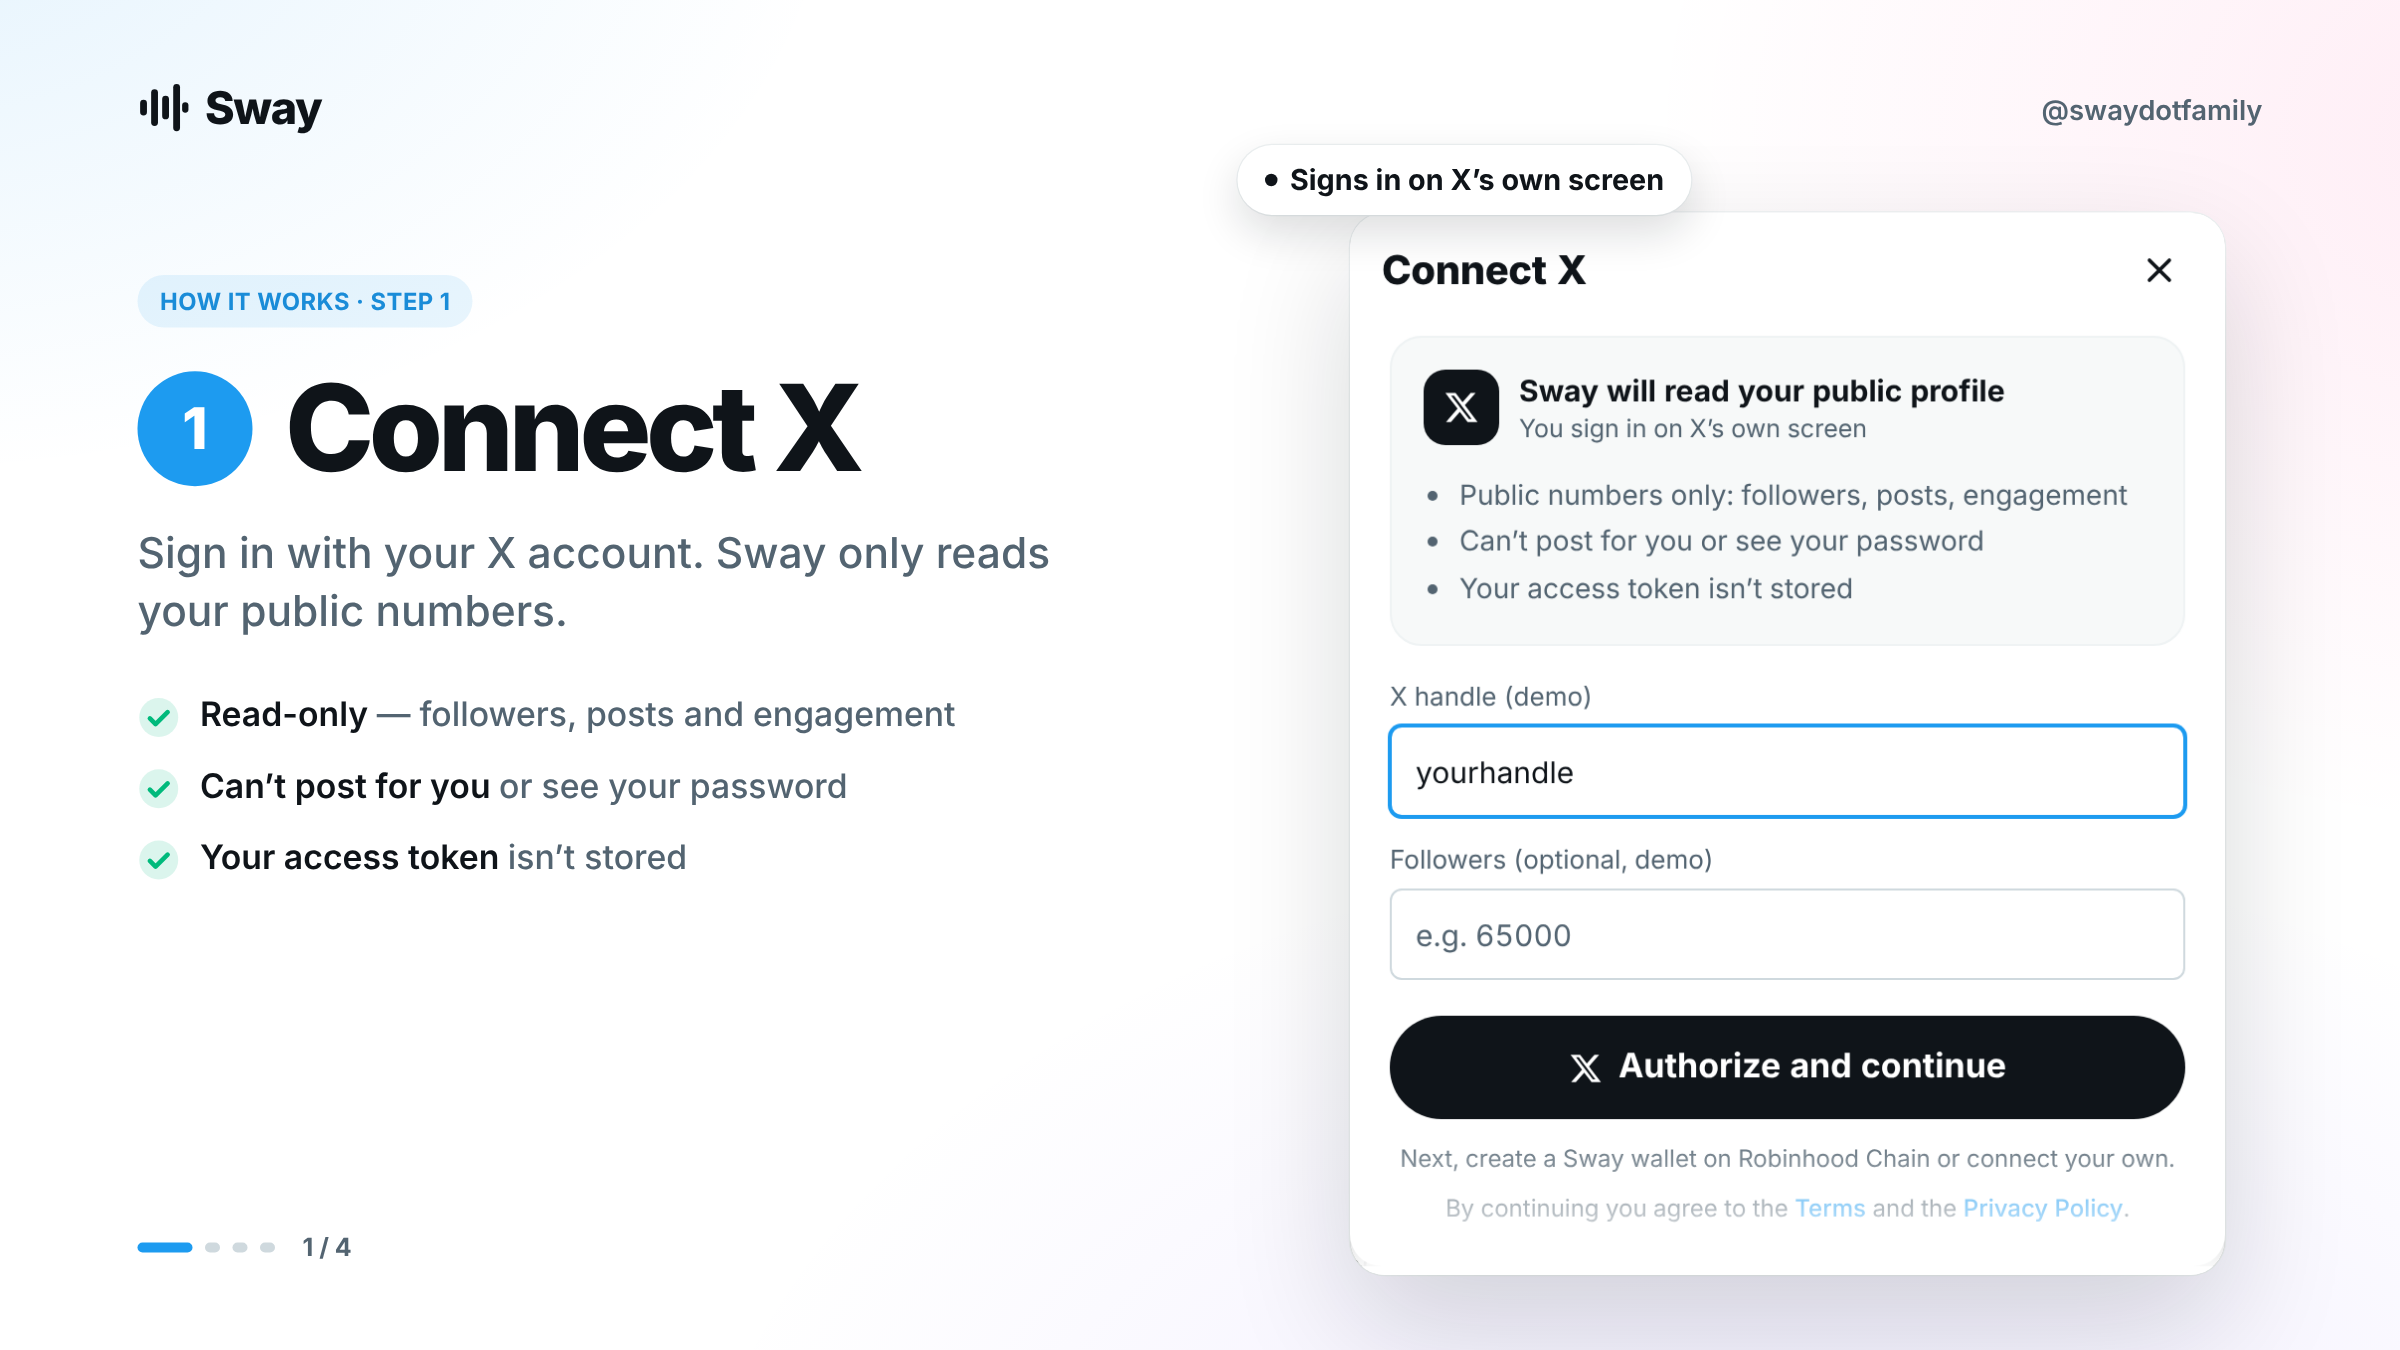
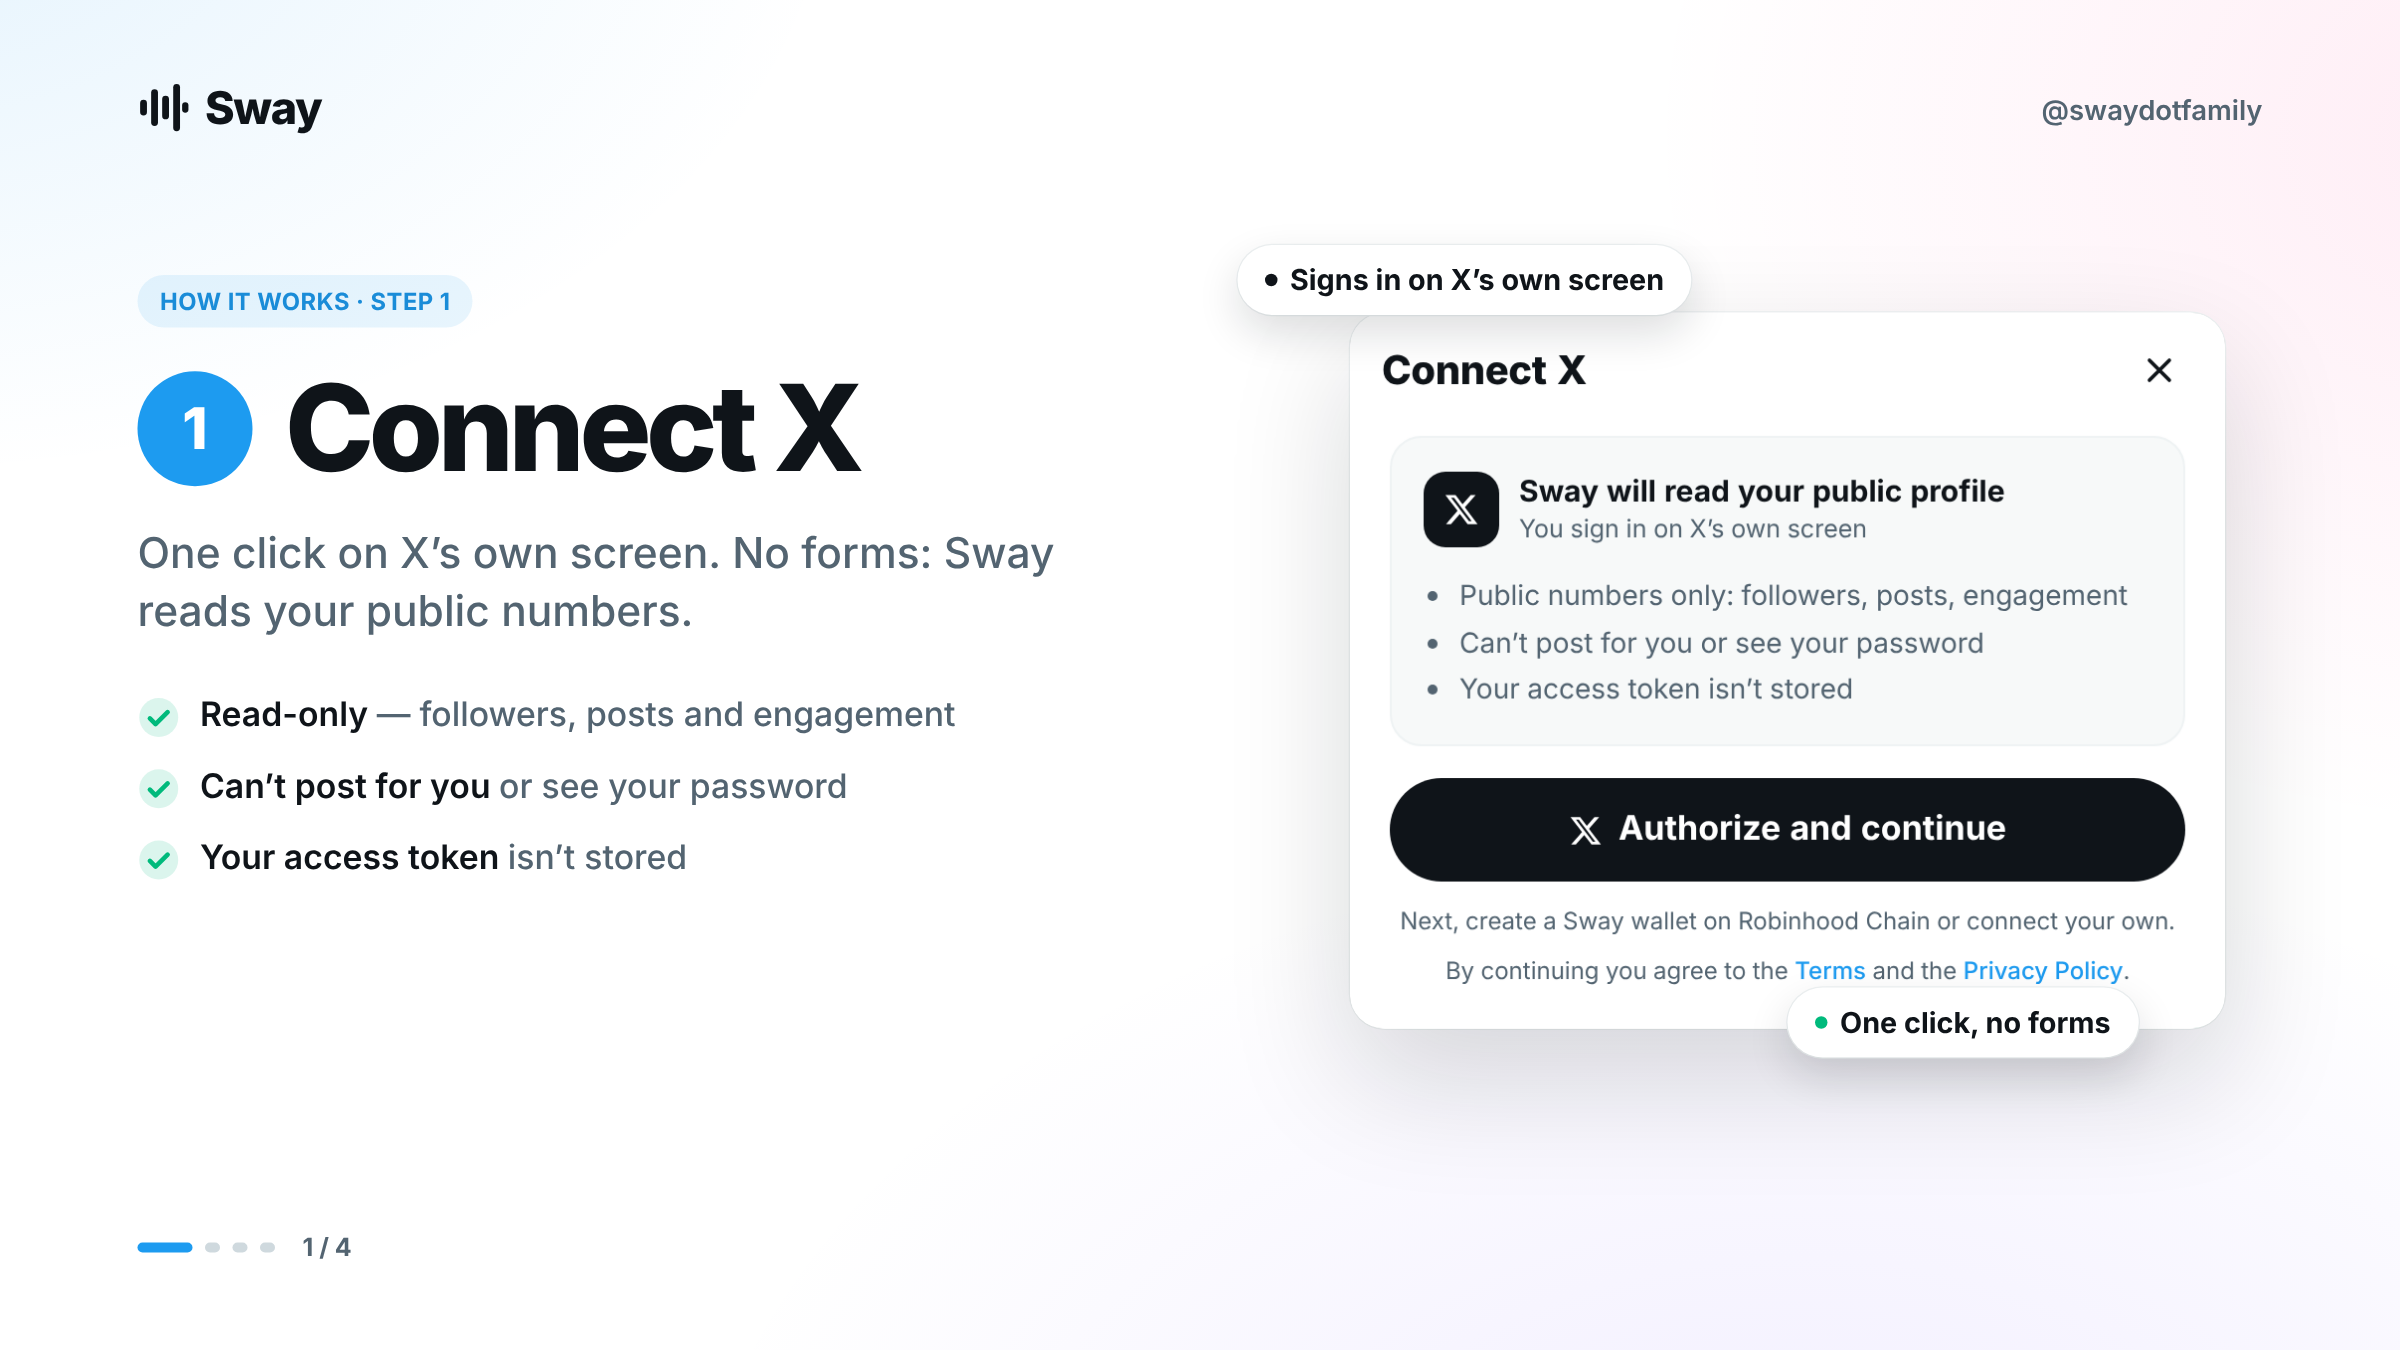
Brand: Connect X shots show the production modal (no demo handle/followers fields)
Claude-Session: https://claude.ai/code/session_01TovEhvCBZM6qmqxBYLtmxm

Changed region(s): [[0.5312, 0.1244, 0.9375, 0.9022], [0.0625, 0.4044, 0.4375, 0.4667], [0.5938, 0.9333, 0.9062, 0.9644]]

diff --git a/tools/intro-video/intro.html b/tools/intro-video/intro.html
@@ -70,11 +70,11 @@ html,body{width:1920px;height:1080px;overflow:hidden;background:#fff;-webkit-fon
 
 <!-- S5: how it works, with the real screens -->
 <div class="L" id="s5">
-  <div class="step" id="st1"><span class="num">1</span><div class="st">Connect X</div><div class="sd">Read-only. Sway never posts for you or sees your password.</div></div>
+  <div class="step" id="st1"><span class="num">1</span><div class="st">Connect X</div><div class="sd">One click on X’s own screen. Read-only: Sway never posts for you.</div></div>
   <div class="step" id="st2"><span class="num">2</span><div class="st">Get your<br>Sway score</div><div class="sd">An open model scores your reach, engagement and history.</div></div>
   <div class="step" id="st3"><span class="num">3</span><div class="st">Your key<br>market opens</div><div class="sd">Fans buy your keys to back you. Holders get your room.</div></div>
   <div class="pips"><i id="pp1"></i><i id="pp2"></i><i id="pp3"></i></div>
-  <div class="ui" id="u1" style="left:1040px;top:150px;width:640px"><img src="assets/connect.png"></div>
+  <div class="ui" id="u1" style="left:1040px;top:250px;width:640px"><img src="assets/connect.png"></div>
   <div class="ui" id="u2" style="left:1040px;top:150px;width:640px"><img class="sc" src="assets/scoring0.png"><img class="sc" src="assets/scoring1.png" style="display:none"><img class="sc" src="assets/scoring2.png" style="display:none"><img class="sc" src="assets/scoring3.png" style="display:none"><img class="sc" src="assets/scoring4.png" style="display:none"><img class="sc" src="assets/scoring5.png" style="display:none"></div>
   <div class="ui" id="u3" style="left:1040px;top:200px;width:640px"><img src="assets/cardlive.png"></div>
   <div class="ui" id="u4" style="left:1060px;top:110px;width:600px"><img src="assets/profile-top.png"></div>

diff --git a/tools/intro-video/how-it-works-series.html b/tools/intro-video/how-it-works-series.html
@@ -35,15 +35,16 @@ h1{font-size:96px;font-weight:800;letter-spacing:-.045em;line-height:.98}
   <div class="left">
     <span class="kick">HOW IT WORKS · STEP 1</span>
     <div class="ttl"><span class="num">1</span><h1>Connect X</h1></div>
-    <div class="d">Sign in with your X account. Sway only reads your public numbers.</div>
+    <div class="d">One click on X’s own screen. No forms: Sway reads your public numbers.</div>
     <div class="pts">
       <div class="pt">CHECK<div>Read-only <span>— followers, posts and engagement</span></div></div>
       <div class="pt">CHECK<div>Can’t post for you <span>or see your password</span></div></div>
       <div class="pt">CHECK<div>Your access token <span>isn’t stored</span></div></div>
     </div>
   </div>
-  <div class="ui fade" style="left:1080px;top:170px;width:700px;height:850px"><img src="assets/connect.png"></div>
-  <div class="chip" style="left:990px;top:116px"><i style="background:#0F1419"></i>Signs in on X’s own screen</div>
+  <div class="ui" style="left:1080px;top:250px;width:700px"><img src="assets/connect.png"></div>
+  <div class="chip" style="left:990px;top:196px"><i style="background:#0F1419"></i>Signs in on X’s own screen</div>
+  <div class="chip" style="left:1430px;top:790px"><i style="background:var(--green)"></i>One click, no forms</div>
 </div>
 
 <!-- 2: score -->
